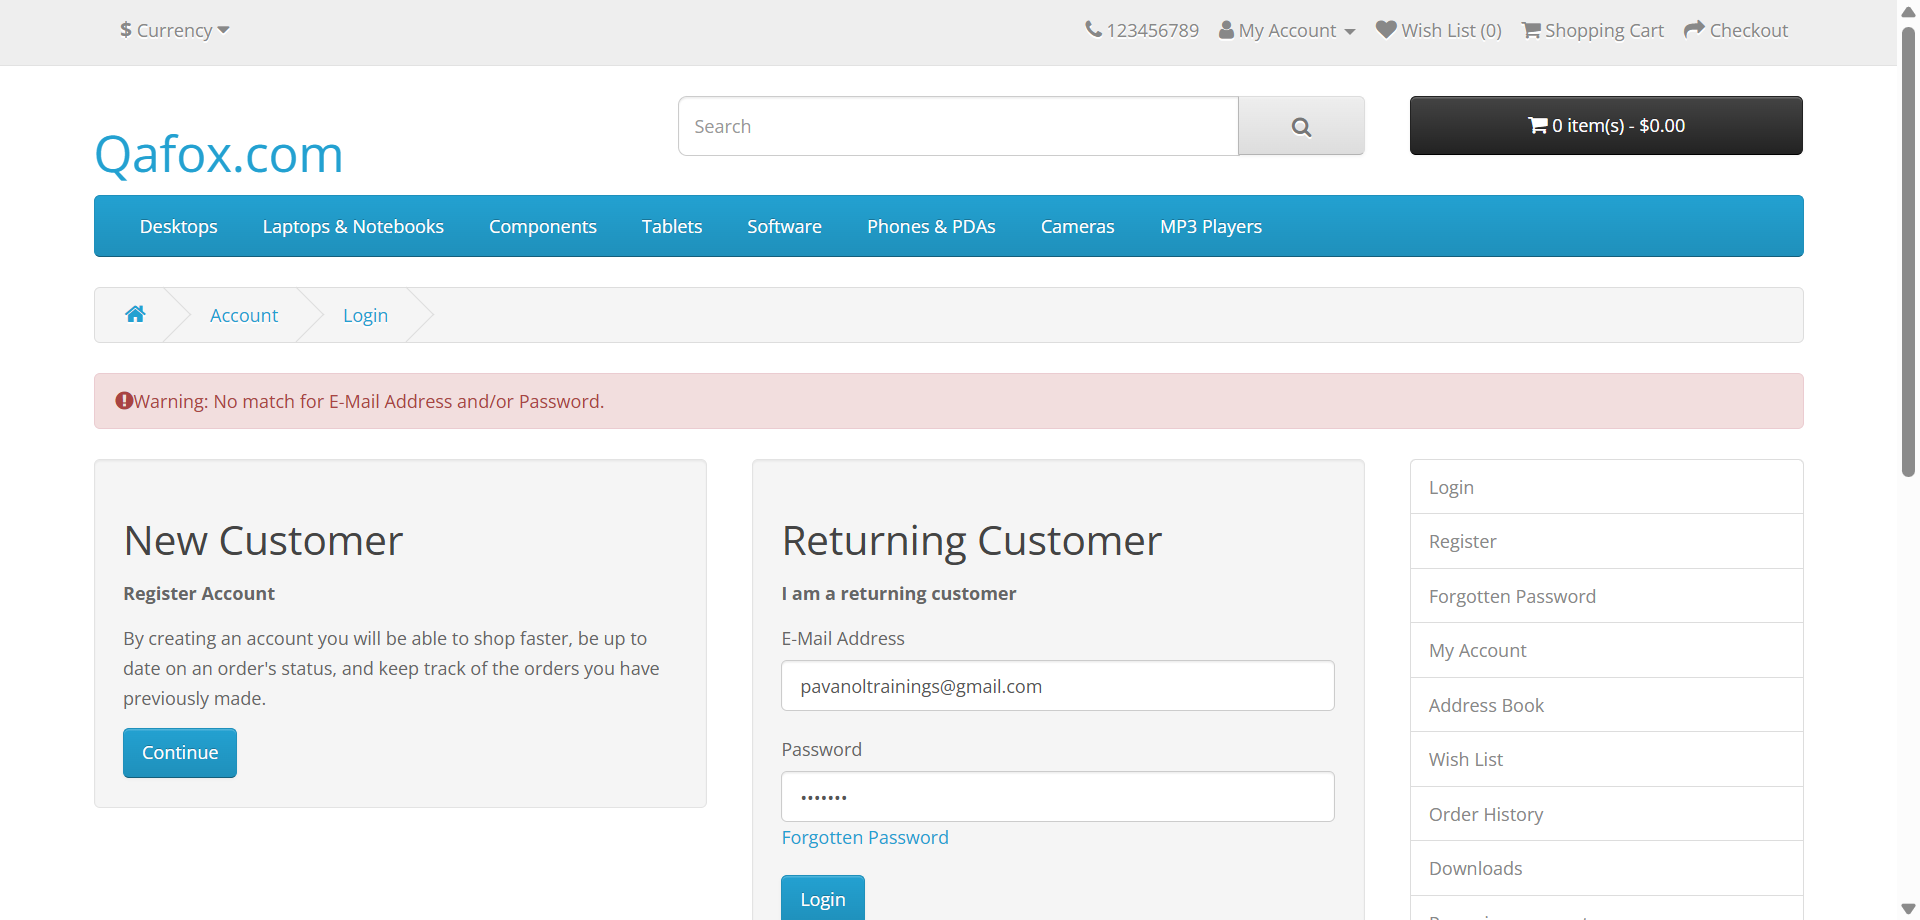
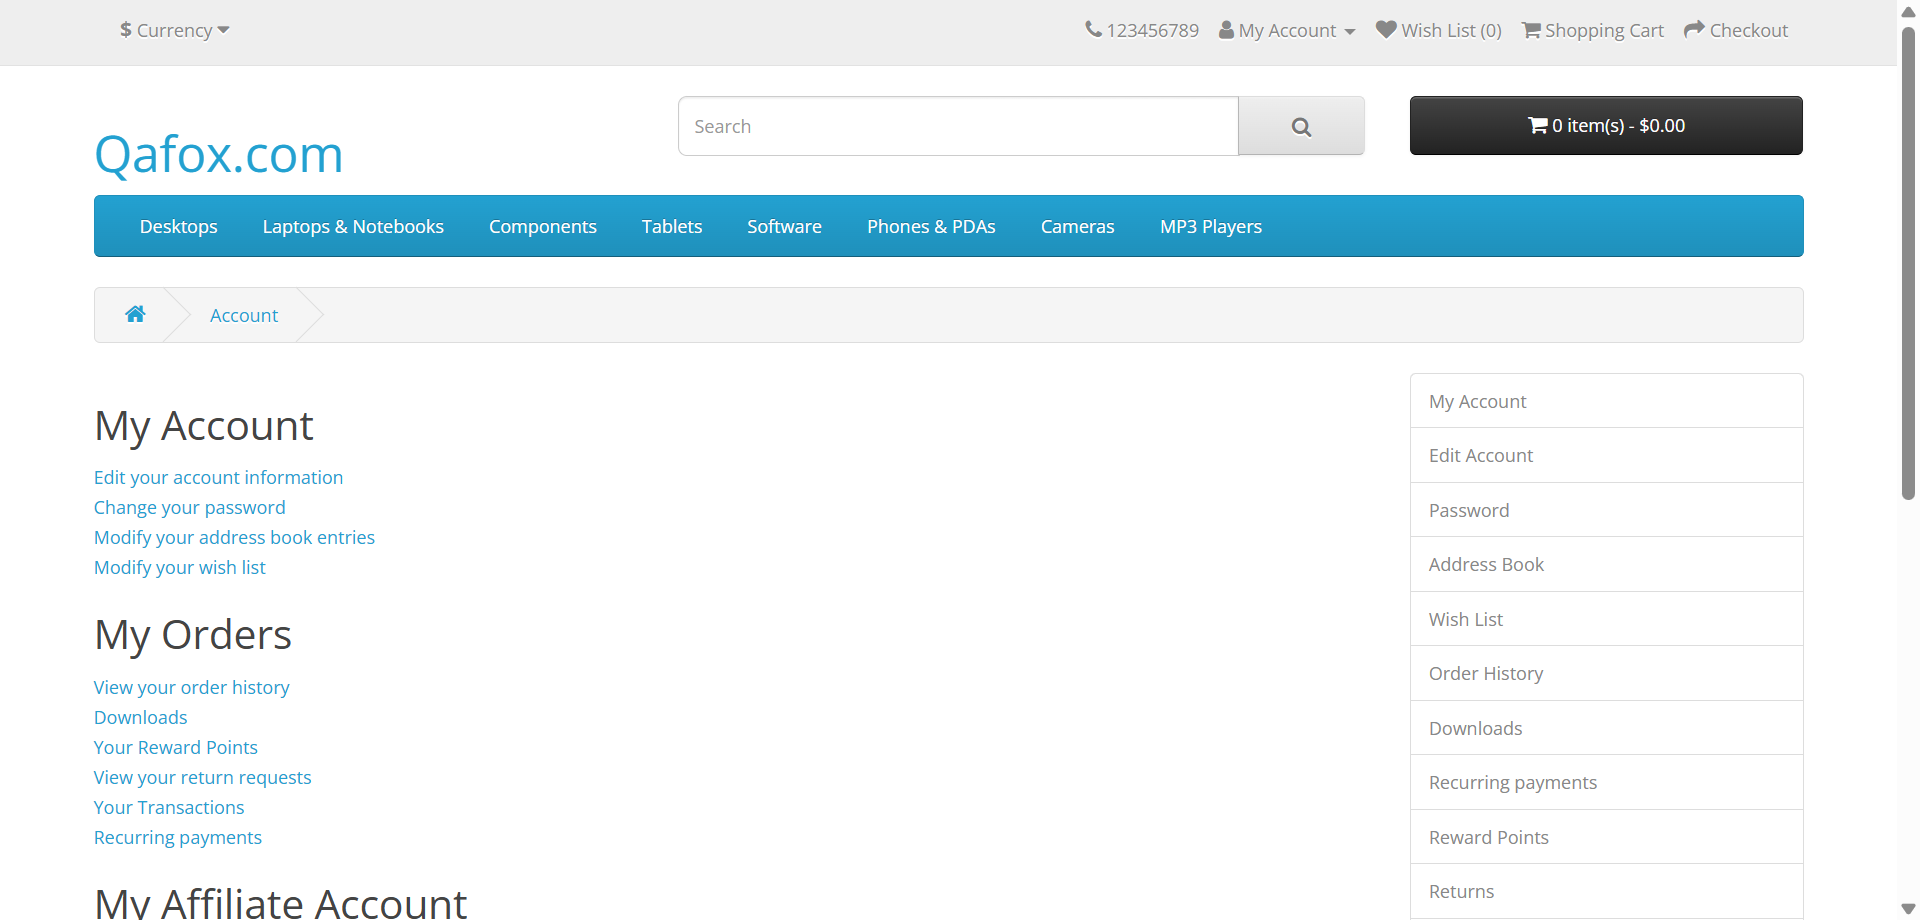
"Data Driven test cases added"

diff --git a/testcases/test_003_login_ddt.py b/testcases/test_003_login_ddt.py
@@ -1,0 +1,60 @@
+import time
+from pageObjects.HomePage import HomePage
+from pageObjects.LoginPage import LoginPage
+from pageObjects.MyAccountPage import MyAccountPage
+from utilities import XLUtils
+from utilities.readProperties import ReadConfig
+from utilities.customLogger import LogGen
+import os
+
+class Test_Login_DDT():
+    baseURL = ReadConfig.getApplicationURL()
+    logger = LogGen.loggen()  # Logger
+
+    path = os.path.abspath(os.curdir)+"\\testdata\\Opencart_LoginData.xlsx"
+
+    def test_login_ddt(self,setup):
+        self.logger.info("**** Starting test_003_login_Datadriven *******")
+        self.rows=XLUtils.getRowCount(self.path,'Sheet1')
+        lst_status=[]
+
+        self.driver = setup
+        self.driver.get(self.baseURL)
+        self.driver.maximize_window()
+
+        self.hp = HomePage(self.driver)  # HomePage Page Object Class
+        self.lp = LoginPage(self.driver)  # LoginPage Page Object Class
+        self.ma = MyAccountPage(self.driver)  # MyAccount Page Object class
+
+        for r in range(2,self.rows+1):
+            self.hp.clickMyAccount()
+            self.hp.clickLogin()
+
+            self.email=XLUtils.readData(self.path,"Sheet1",r,1)
+            self.password = XLUtils.readData(self.path, "Sheet1", r, 2)
+            self.exp = XLUtils.readData(self.path, "Sheet1", r, 3)
+            self.lp.setEmail(self.email)
+            self.lp.setPassword(self.password)
+            self.lp.clicklogin()
+            time.sleep(3)
+            self.targetpage=self.lp.isMyAccountPageExists()
+
+            if self.exp=='Valid':
+                if self.targetpage==True:
+                    lst_status.append('Pass')
+                    self.ma.clickLogout()
+                else:
+                    lst_status.append('Fail')
+            elif self.exp=='Invalid':
+                if self.targetpage == True:
+                    lst_status.append('Fail')
+                    self.ma.clickLogout()
+                else:
+                    lst_status.append('Pass')
+        self.driver.close()
+        #final validation
+        if "Fail" not in lst_status:
+            assert True
+        else:
+            assert False
+        self.logger.info("******* End of test_003_login_Datadriven **********")

diff --git a/utilities/XLUtils.py b/utilities/XLUtils.py
@@ -1,0 +1,42 @@
+import openpyxl
+from openpyxl.styles import PatternFill
+
+def getRowCount(file,sheetName):
+    workbook = openpyxl.load_workbook(file)
+    sheet = workbook[sheetName]
+    return(sheet.max_row)
+
+def getColumnCount(file,sheetName):
+    workbook = openpyxl.load_workbook(file)
+    sheet = workbook[sheetName]
+    return(sheet.max_column)
+
+def readData(file,sheetName,rownum,columnno):
+    workbook = openpyxl.load_workbook(file)
+    sheet = workbook[sheetName]
+    return sheet.cell(rownum,columnno).value
+
+def writeData(file,sheetName,rownum,columnno,data):
+    workbook = openpyxl.load_workbook(file)
+    sheet = workbook[sheetName]
+    sheet.cell(rownum, columnno).value = data
+    workbook.save(file)
+
+def fillGreenColor(file,sheetName,rownum,columnno):
+    workbook = openpyxl.load_workbook(file)
+    sheet = workbook[sheetName]
+    greenFill = PatternFill(start_color='60b212',
+                       end_color='60b212',
+                       fill_type='solid')
+    sheet.cell(rownum,columnno).fill=greenFill
+    workbook.save(file)
+
+
+def fillRedColor(file,sheetName,rownum,columnno):
+    workbook = openpyxl.load_workbook(file)
+    sheet = workbook[sheetName]
+    redFill = PatternFill(start_color='ff0000',
+                       end_color='ff0000',
+                       fill_type='solid')
+    sheet.cell(rownum,columnno).fill=redFill
+    workbook.save(file)

diff --git a/testcases/test_002_login.py b/testcases/test_002_login.py
@@ -13,7 +13,7 @@ class Test_Login():
     user=ReadConfig.getUseremail()
     password=ReadConfig.getPassword()
 
-
+    @pytest.mark.sanity
     def test_login(self,setup):
         self.logger.info("User details input")
         self.driver=setup
@@ -34,7 +34,9 @@ class Test_Login():
             assert True
         else:
             self.driver.save_screenshot(os.path.abspath(os.curdir)+"\\screenshots\\"+"test_login.png")
+            self.logger.error("account login failed")
             assert False
+
 
 
 

diff --git a/pageObjects/LoginPage.py b/pageObjects/LoginPage.py
@@ -6,7 +6,7 @@ class LoginPage():
     txt_email_xpath = "//input[@id='input-email']"
     txt_password_xpath = "//input[@id='input-password']"
     btn_login_xpath = "//input[@value='Login']"
-    msg_myaccount_xpath = "//h2[text()='My Account']"
+    msg_myaccount_xpath = "/html[1]/body[1]/div[2]/div[1]/div[1]/h2[1]"
 
 
     def __init__(self, driver):

diff --git a/pageObjects/MyAccountPage.py b/pageObjects/MyAccountPage.py
@@ -1,0 +1,12 @@
+from selenium.webdriver.common.by import By
+
+
+class MyAccountPage():
+
+    lnk_logout_xpath = "//aside[@id='column-right']//a[normalize-space()='Logout']"
+
+    def __init__(self, driver):
+        self.driver = driver
+
+    def clickLogout(self):
+        self.driver.find_element(By.XPATH,self.lnk_logout_xpath).click()

diff --git a/testcases/test_001_AccountRegistration.py b/testcases/test_001_AccountRegistration.py
@@ -9,6 +9,7 @@ class Test_001_AccountReg:
     baseURL = ReadConfig.getApplicationURL()
     logger=LogGen.loggen()
 
+    @pytest.mark.regression
     def test_account_reg(self, setup):
         self.logger.info("Testing account registration")
         self.driver = setup
